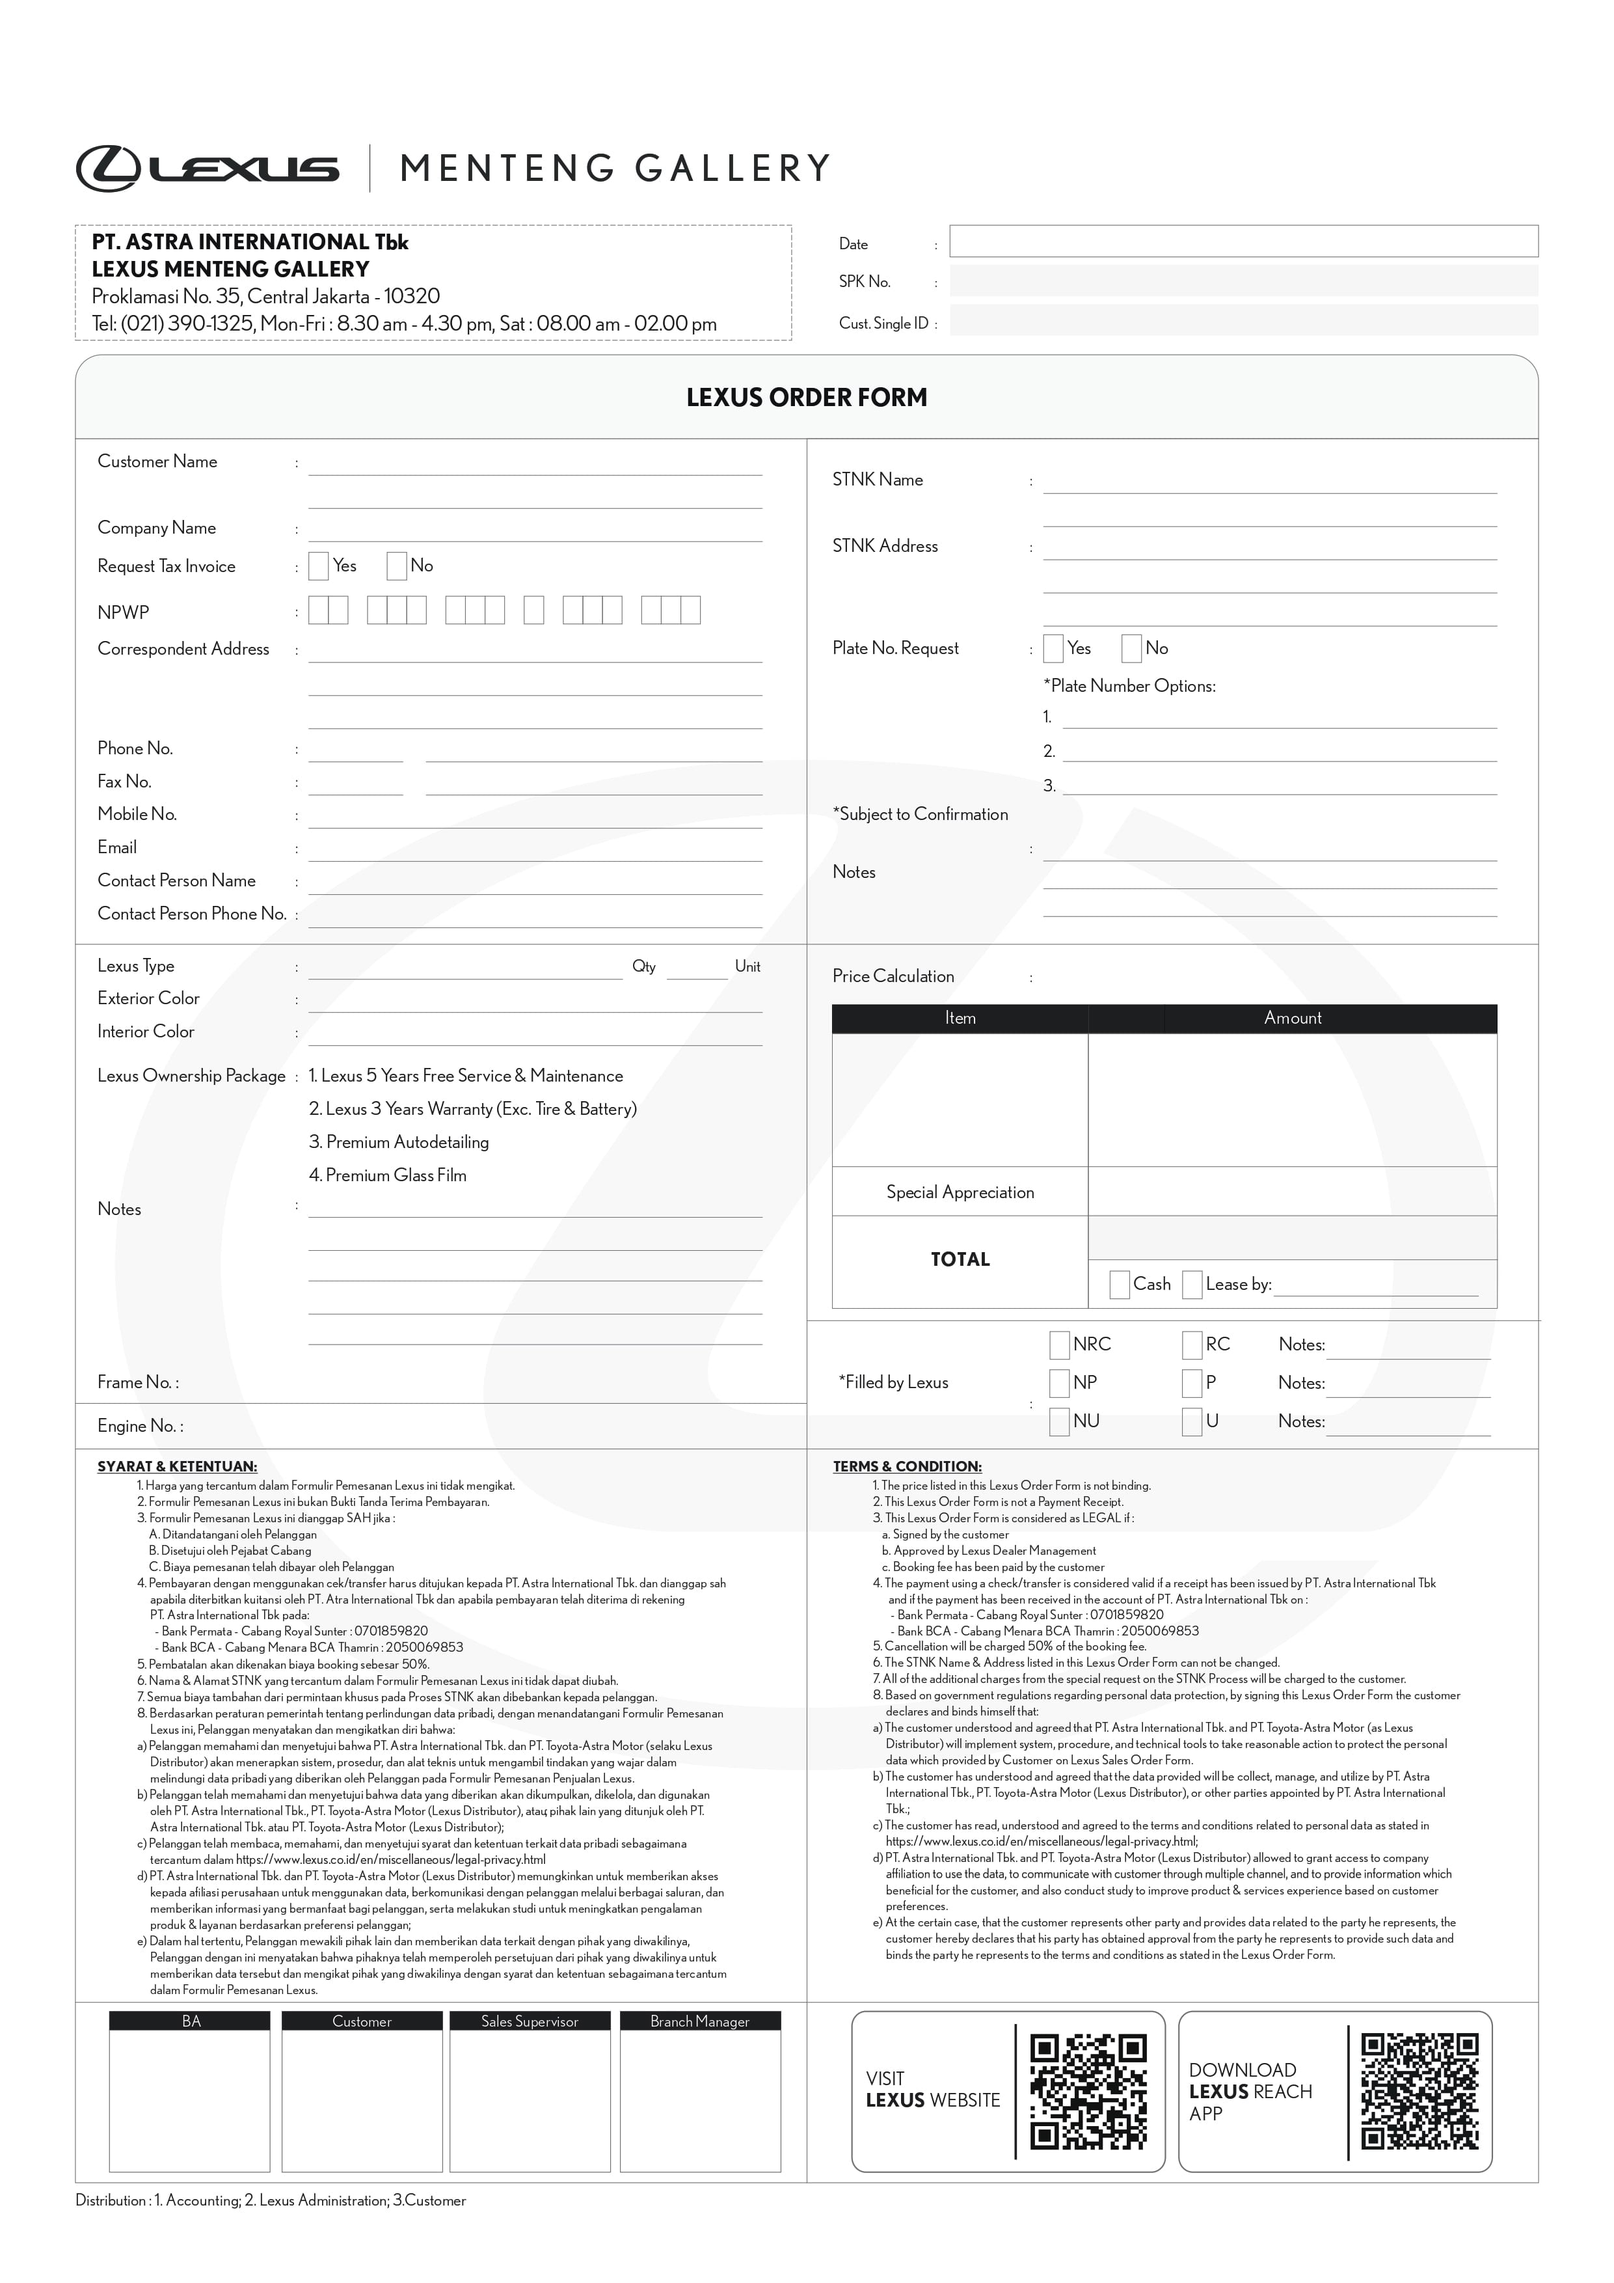
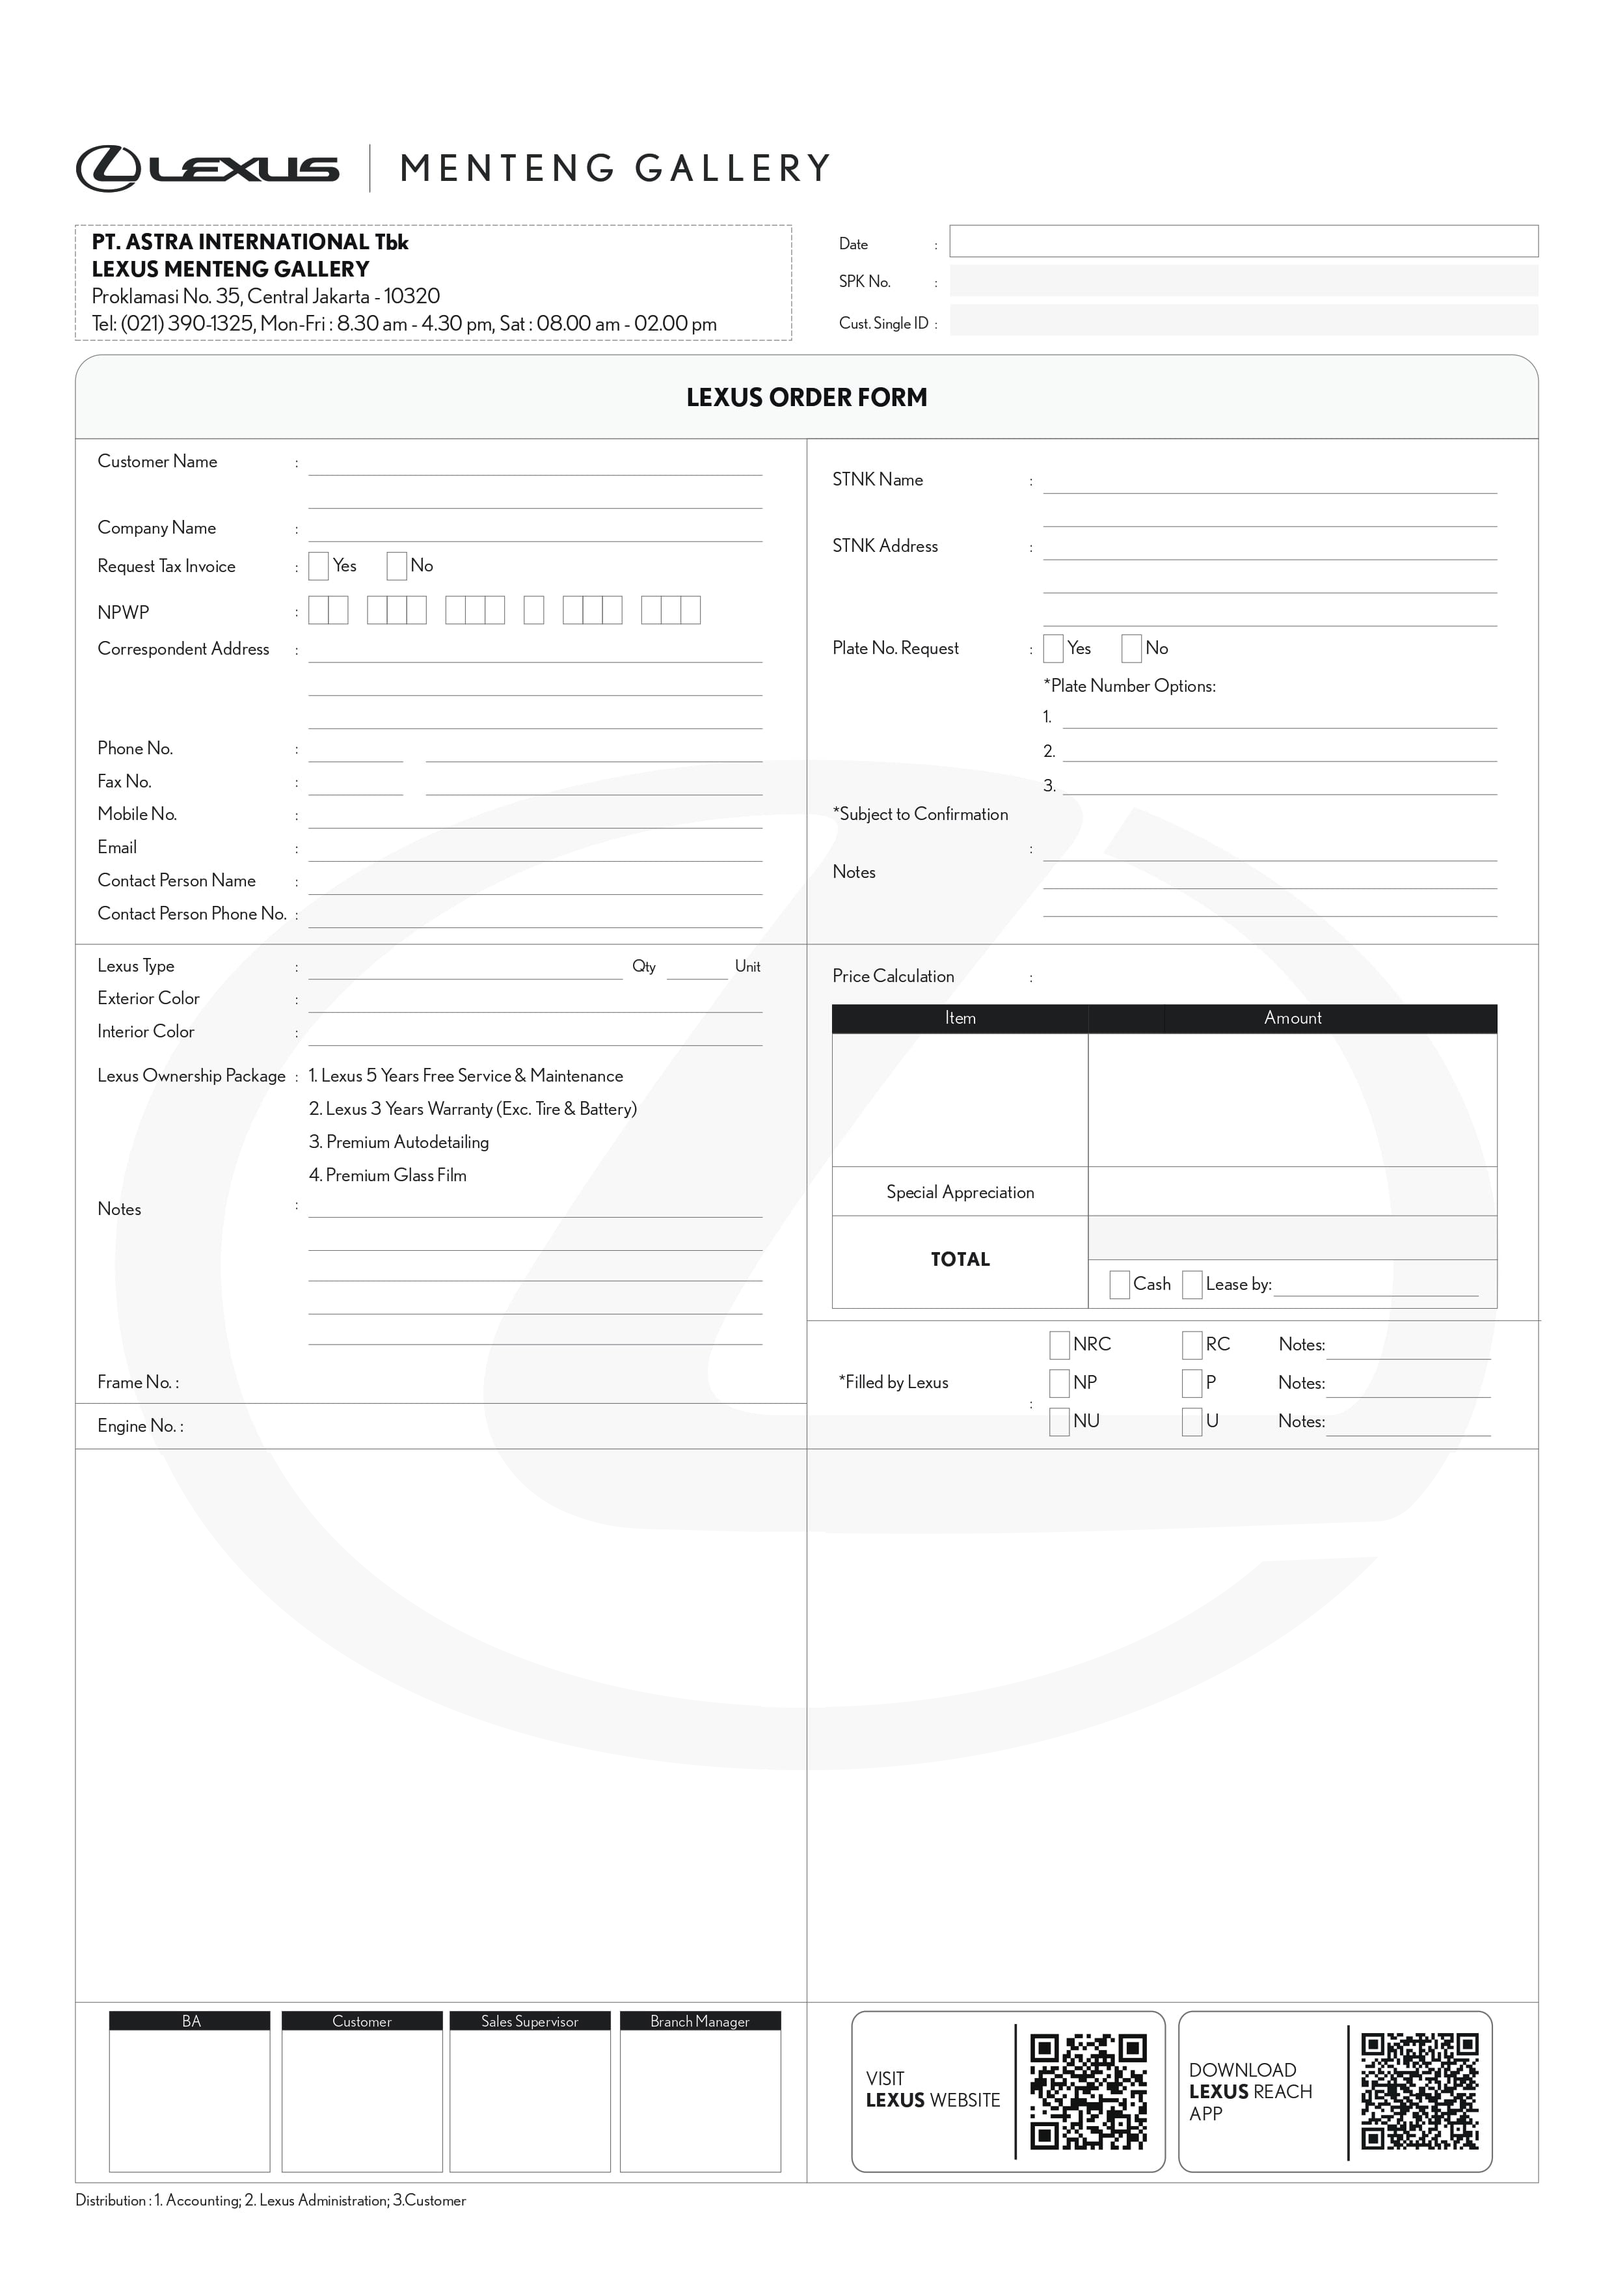
form option 1 - syarat ketentuan

Changed region(s): [[0.0621, 0.6214, 0.4345, 0.87], [0.5276, 0.6214, 0.9, 0.87]]

diff --git a/lexus-mlp/css/rancak.css b/lexus-mlp/css/rancak.css
@@ -90,3 +90,14 @@ body::-webkit-scrollbar{width:0px;}
 .rancak-form-signature-box{width:19.3vw; height:5.4vw;}
 .rancak-form-signature-name, .rancak-form-signature-date{padding-left:2.5vw;}
 .rancak-form-signature-name{margin:0.5vw 0;}
+
+
+
+.rancak-form-term{font-size:0.8vw; padding:0.6vw 1.3vw; text-transform:none; letter-spacing:0; line-height:130%;}
+.rft-title{font-weight:bold; text-transform:uppercase;}
+.rft-list{padding-left:3.2vw;}
+.rft-list ul{padding-left:1vw;}
+.rft-square{list-style:square;}
+.rft-number{list-style:decimal;}
+.rft-letterlow{list-style:lower-alpha;}
+.rft-letterup{list-style:upper-alpha;}

diff --git a/lexus-mlp/index.php b/lexus-mlp/index.php
@@ -154,6 +154,78 @@
 	  <div class="rancak-form-checklist-note">Lorem Ipsum</div>
 	</div>
 	
+    <div aria-label="Syarat & Ketentuan" class="rancak-form-input rancak-form-term" style="top:89.8vw; left:4.7vw; width:45.2vw; height:34.2vw;">
+      <div class="rft-title">Syarat dan Ketentuan:</div>
+      <ul class="rft-list rft-number">
+        <li>Harga yang tercantum dalam Formulir Pemesanan Lexus ini tidak mengikat.</li>
+        <li>Formulir Pemesanan Lexus ini bukan Bukti Tanda Terima Pembayaran.</li>
+        <li>
+          Formulir Pemesanan Lexus ini dianggap SAH jika:
+          <ul class="rft-list rft-letterup">
+            <li>Ditandatangani oleh Pelanggan</li>
+            <li>Disetujui oleh Pejabat Cabang</li>
+            <li>Biaya pemesanan telah dibayar oleh Pelanggan</li>
+          </ul>
+        </li>
+        <li>
+          Pembayaran dengan menggunakan cek/transfer harus ditujukan kepada PT. Astra International Tbk. dan dianggap sah apabila diterbitkan kuitansi oleh PT. Atra International Tbk dan apabila pembayaran telah diterima di rekening PT. Astra International Tbk pada:
+          <ul class="rft-list rft-square">
+            <li>Bank Permata - Cabang Royal Sunter : 0701859820</li>
+            <li>Bank BCA - Cabang Menara BCA Thamrin : 2050069853</li>
+          </ul>
+        </li>
+        <li>Pembatalan akan dikenakan biaya booking sebesar 50%.</li>
+        <li>Nama & Alamat STNK yang tercantum dalam Formulir Pemesanan Lexus ini tidak dapat diubah.</li>
+        <li>Semua biaya tambahan dari permintaan khusus pada Proses STNK akan dibebankan kepada pelanggan.</li>
+        <li>
+          Berdasarkan peraturan pemerintah tentang perlindungan data pribadi, dengan menandatangani Formulir Pemesanan Lexus ini, Pelanggan menyatakan dan mengikatkan diri bahwa:
+          <ul class="rft-list rft-letterlow">
+            <li>Pelanggan memahami dan menyetujui bahwa PT. Astra International Tbk. dan PT. Toyota-Astra Motor (selaku Lexus Distributor) akan menerapkan sistem, prosedur, dan alat teknis untuk mengambil tindakan yang wajar dalam melindungi data pribadi yang diberikan oleh Pelanggan pada Formulir Pemesanan Penjualan Lexus.</li>
+            <li>Pelanggan telah memahami dan menyetujui bahwa data yang diberikan akan dikumpulkan, dikelola, dan digunakan oleh PT. Astra International Tbk., PT. Toyota-Astra Motor (Lexus Distributor), atau; pihak lain yang ditunjuk oleh PT. Astra International Tbk. atau PT. Toyota-Astra Motor (Lexus Distributor);</li>
+            <li>Pelanggan telah membaca, memahami, dan menyetujui syarat dan ketentuan terkait data pribadi sebagaimana tercantum dalam https://www.lexus.co.id/en/miscellaneous/legal-privacy.html</li>
+            <li>PT. Astra International Tbk. dan PT. Toyota-Astra Motor (Lexus Distributor) memungkinkan untuk memberikan akses kepada afiliasi perusahaan untuk menggunakan data, berkomunikasi dengan pelanggan melalui berbagai saluran, dan memberikan informasi yang bermanfaat bagi pelanggan, serta melakukan studi untuk meningkatkan pengalaman produk & layanan berdasarkan preferensi pelanggan;</li>
+            <li>Dalam hal tertentu, Pelanggan mewakili pihak lain dan memberikan data terkait dengan pihak yang diwakilinya, Pelanggan dengan ini menyatakan bahwa pihaknya telah memperoleh persetujuan dari pihak yang diwakilinya untuk memberikan data tersebut dan mengikat pihak yang diwakilinya dengan syarat dan ketentuan sebagaimana tercantum dalam Formulir Pemesanan Lexus.</li>
+          </ul>
+        </li>
+      </ul>
+	</div>
+	
+    <div aria-label="Term & Condition" class="rancak-form-input rancak-form-term" style="top:89.8vw; left:50.1vw; width:45.2vw; height:34.2vw;">
+      <div class="rft-title">Term and Condition:</div>
+      <ul class="rft-list rft-number">
+        <li>The price listed in this Lexus Order Form is not binding.</li>
+        <li>This Lexus Order Form is not a Payment Receipt.</li>
+        <li>
+          This Lexus Order Form is considered as LEGAL if :
+          <ul class="rft-list rft-letterup">
+            <li>Signed by the customer</li>
+            <li>Approved by Lexus Dealer Management</li>
+            <li>Booking fee has been paid by the customer</li>
+          </ul>
+        </li>
+        <li>
+          The payment using a check/transfer is considered valid if a receipt has been issued by PT. Astra International Tbk and if the payment has been received in the account of PT. Astra International Tbk on :
+          <ul class="rft-list rft-square">
+            <li>Bank Permata - Cabang Royal Sunter : 0701859820</li>
+            <li>Bank BCA - Cabang Menara BCA Thamrin : 2050069853</li>
+          </ul>
+        </li>
+        <li>Cancellation will be charged 50% of the booking fee.</li>
+        <li>The STNK Name & Address listed in this Lexus Order Form can not be changed.</li>
+        <li>All of the additional charges from the special request on the STNK Process will be charged to the customer.</li>
+        <li>
+          Based on government regulations regarding personal data protection, by signing this Lexus Order Form the customer declares and binds himself that:
+          <ul class="rft-list rft-letterlow">
+            <li>The customer understood and agreed that PT. Astra International Tbk. and PT. Toyota-Astra Motor (as Lexus Distributor) will implement system, procedure, and technical tools to take reasonable action to protect the personal data which provided by Customer on Lexus Sales Order Form.</li>
+            <li>The customer has understood and agreed that the data provided will be collect, manage, and utilize by PT. Astra International Tbk., PT. Toyota-Astra Motor (Lexus Distributor), or other parties appointed by PT. Astra International Tbk.;</li>
+            <li>The customer has read, understood and agreed to the terms and conditions related to personal data as stated in https://www.lexus.co.id/en/miscellaneous/legal-privacy.html;</li>
+            <li>PT. Astra International Tbk. and PT. Toyota-Astra Motor (Lexus Distributor) allowed to grant access to company affiliation to use the data, to communicate with customer through multiple channel, and to provide information which beneficial for the customer, and also conduct study to improve product & services experience based on customer preferences.</li>
+            <li>At the certain case, that the customer represents other party and provides data related to the party he represents, the customer hereby declares that his party has obtained approval from the party he represents to provide such data and binds the party he represents to the terms and conditions as stated in the Lexus Order Form.</li>
+          </ul>
+        </li>
+      </ul>
+	</div>
+	
     <div aria-label="Signature" class="rancak-form-signature rancak-form-signature-<?php echo $page; ?>" style="top:126.1vw; left:7.3vw;">
 	  <div class="rancak-form-signature-box">
 	    <img src="img/sample/signature-1.png"/>
